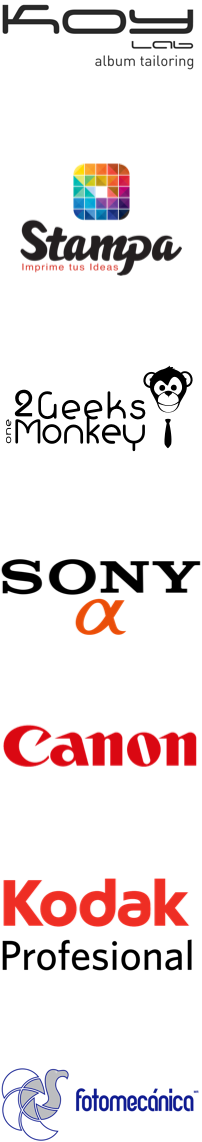
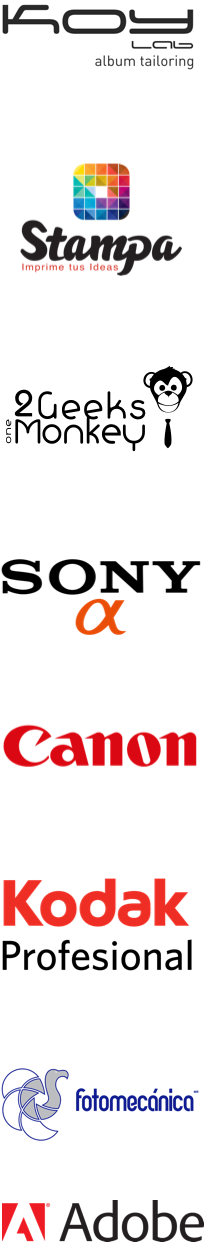
Agregada imagen faltante

diff --git a/views/site/ruleta.php b/views/site/ruleta.php
@@ -88,7 +88,7 @@ height: 30px;
     </div>
     <footer>
       <a class="sponsor" href="http://www.2geeksonemonkey.com">Desarrollo donado por 2 Geeks one Monkey</a>
-      <img src="<?=Url::base()?>/webassets/images/2geeks-isotipo.png" alt="Desarrollo donado por 2 Geeks one Monkey">
+      <img src="<?=Url::base()?>/webassets/images/2Geeks-isotipo.png" alt="Desarrollo donado por 2 Geeks one Monkey">
     </footer>
 </div>
 
